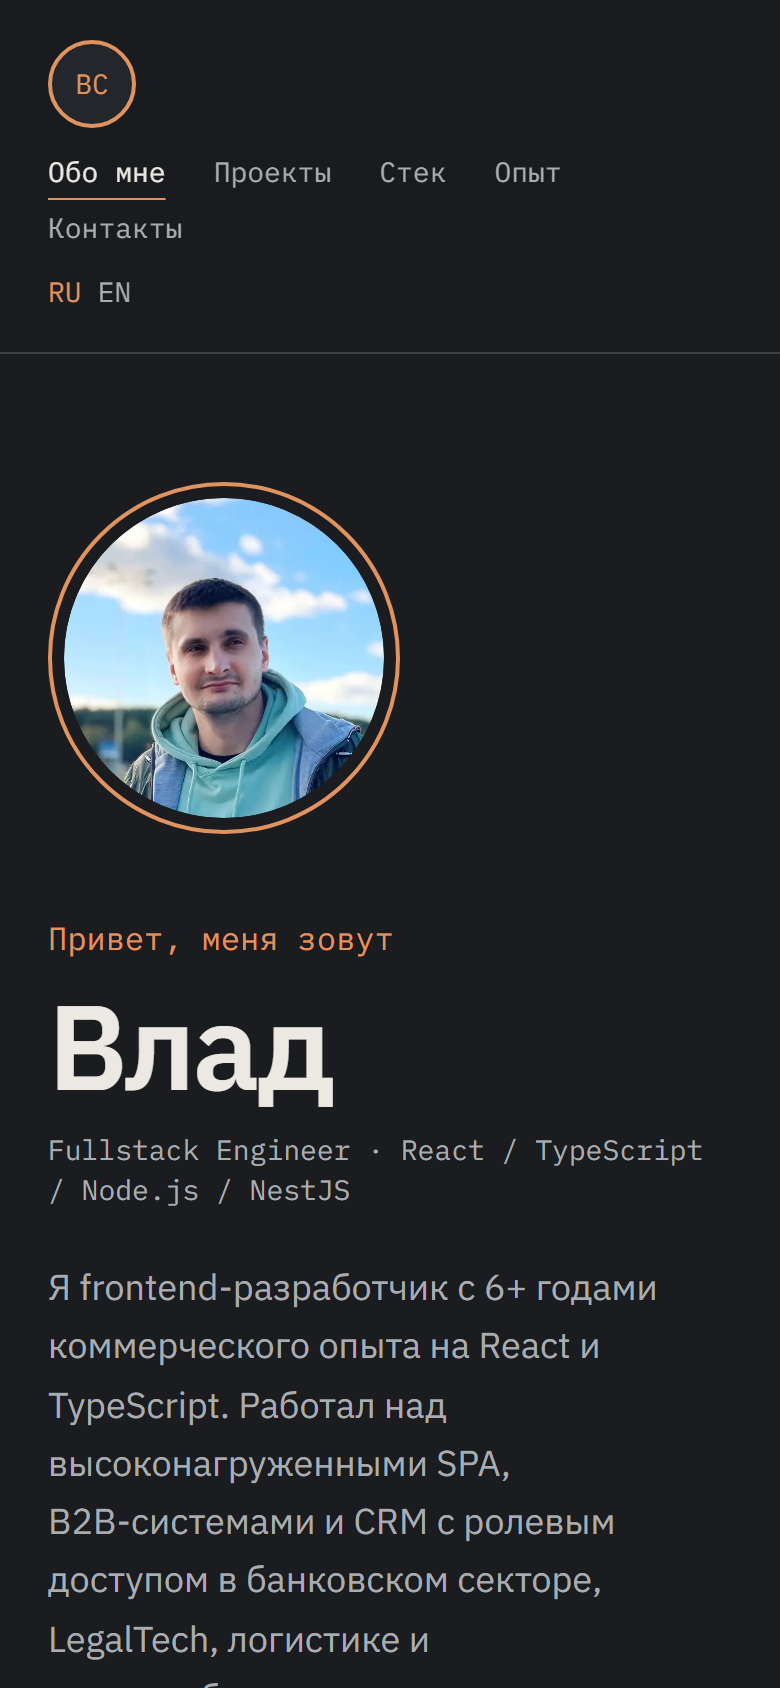
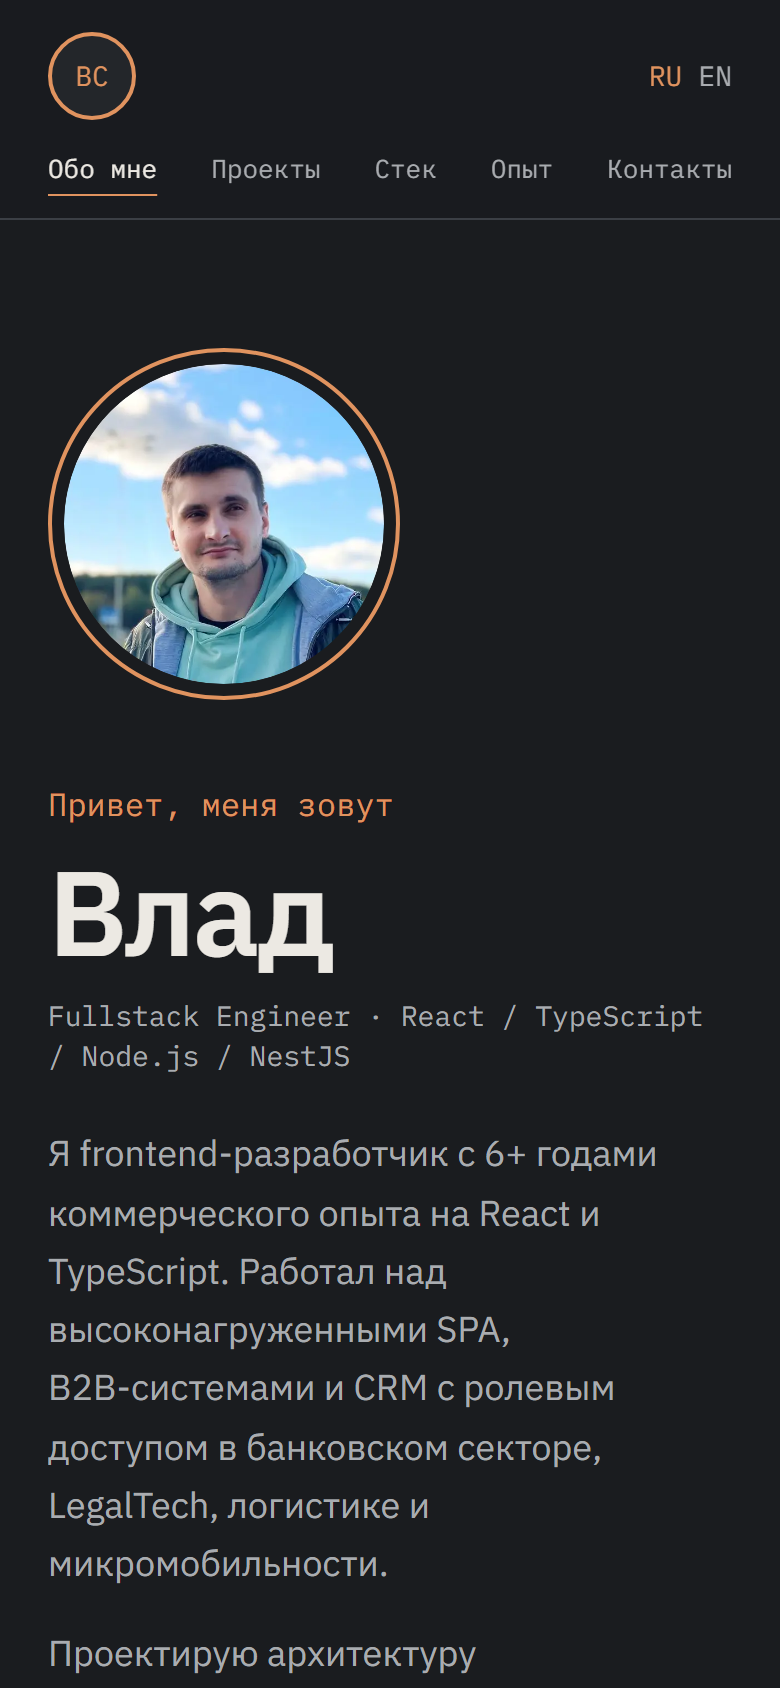
fix(web): lay out the mobile header in two rows
On phones the monogram and language switcher share the first row and all five sections fit the second. Grid placement keeps the DOM order, so keyboard focus on desktop is unchanged. The README mobile screenshot is retaken.

diff --git a/apps/web/src/components/site-header.tsx b/apps/web/src/components/site-header.tsx
@@ -23,7 +23,10 @@ export function SiteHeader({
 
   return (
     <header className="z-20 border-b border-line bg-paper/90 backdrop-blur-sm md:sticky md:top-0">
-      <div className="mx-auto flex w-full max-w-5xl flex-wrap items-center justify-between gap-x-8 gap-y-3 px-6 py-5">
+      {/* Телефон: сетка в две строки — монограмма и языки сверху, разделы
+          во всю ширину снизу. Порядок в разметке тот же, что на ПК, поэтому
+          переход по Tab не меняется: место задают row-start и col-start */}
+      <div className="mx-auto grid w-full max-w-5xl grid-cols-[auto_auto] items-center justify-between gap-y-4 px-6 py-4 md:flex md:gap-x-8 md:py-5">
         <Link
           href={`/${locale}`}
           aria-label={name}
@@ -31,16 +34,19 @@ export function SiteHeader({
         >
           <Monogram fullName={name} className="size-11 text-sm" />
         </Link>
-        <div className="flex flex-wrap items-center gap-x-8 gap-y-3">
-          <nav aria-label={nav.label}>
-            <ul className="flex flex-wrap gap-x-6 gap-y-2 font-mono text-sm">
-              {items.map((item) => (
-                <li key={item.href}>
-                  <NavLink {...item} />
-                </li>
-              ))}
-            </ul>
-          </nav>
+        <nav
+          aria-label={nav.label}
+          className="col-span-2 row-start-2 md:ml-auto"
+        >
+          <ul className="flex flex-wrap justify-between gap-x-3 gap-y-2 font-mono text-xs min-[380px]:text-[13px] md:justify-start md:gap-x-6 md:text-sm">
+            {items.map((item) => (
+              <li key={item.href}>
+                <NavLink {...item} />
+              </li>
+            ))}
+          </ul>
+        </nav>
+        <div className="col-start-2 row-start-1 justify-self-end">
           <LanguageSwitcher current={locale} label={language.label} />
         </div>
       </div>
